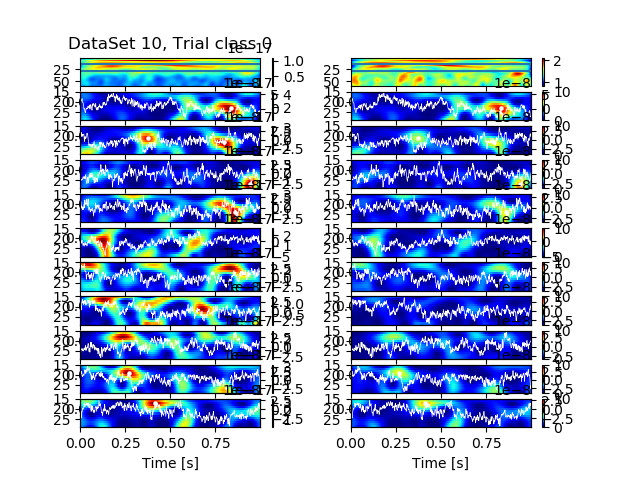
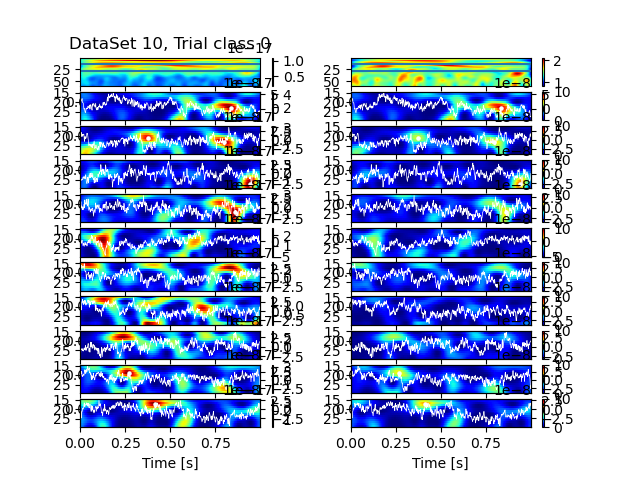
fix pcolor deprecation warning

diff --git a/spectralevents_functions.py b/spectralevents_functions.py
@@ -406,14 +406,15 @@ def spectralevents_vis ( specEv, timeseries, TFR, TFR_norm, tVec, fVec, eventBan
     fig, axs = plt.subplots(nrows=numSampTrials+1, ncols=2)
 
     # Plot average TFR
-    im = axs[0,0].pcolor(tVec, fVec, avgTFR, cmap='jet')
+    im = axs[0,0].pcolormesh(tVec, fVec, avgTFR, cmap='jet', shading='nearest')
     fig.colorbar(im, ax=axs[0,0])
     axs[0,0].invert_yaxis()
     axs[0,0].axhline(y=eventBand[0])
     axs[0,0].axhline(y=eventBand[1])
 
     # Plot average normalized TFR
-    im = axs[0,1].pcolor(tVec, fVec, avgTFR_norm, cmap='jet')
+    im = axs[0,1].pcolormesh(tVec, fVec, avgTFR_norm, cmap='jet',
+                             shading='nearest')
     fig.colorbar(im, ax=axs[0,1])
     axs[0,1].invert_yaxis()
     axs[0,1].axhline(y=eventBand[0])
@@ -428,11 +429,13 @@ def spectralevents_vis ( specEv, timeseries, TFR, TFR_norm, tVec, fVec, eventBan
         df3 = df2.drop(df2[df2['Peak Frequency']<eventBand[0]].index)
         df4 = df3.drop(df3[df3['Peak Frequency']>eventBand[1]].index)
         freqs = df4['Peak Frequency'].tolist()
+        freqs_within_band = fVec[eventBand_inds].tolist()
         times = df4['Peak Time'].tolist()
 
         # Plot trial TFR with time course overlaid
-        im = axs[t+1,0].pcolor(tVec, fVec[eventBand_inds], np.squeeze(TFR[t,eventBand_inds,:]),
-            cmap='jet')
+        tfr_within_band = np.squeeze(TFR[t,eventBand_inds,:])
+        im = axs[t+1,0].pcolormesh(tVec, freqs_within_band, tfr_within_band,
+                                   cmap='jet', shading='nearest')
         fig.colorbar(im, ax=axs[t+1,0])
         axs[t+1,0].invert_yaxis()
         axs[t+1,0].scatter(times, freqs, c='w', s=5)
@@ -441,8 +444,10 @@ def spectralevents_vis ( specEv, timeseries, TFR, TFR_norm, tVec, fVec, eventBan
         axs[t+1,0].set_xlim(tVec[0],tVec[-1])
 
         # Plot trial normalized TFR with time course overlaid
-        im = axs[t+1,1].pcolor(tVec, fVec[eventBand_inds], np.squeeze(TFR_norm[t,eventBand_inds,:]),
-            cmap='jet', vmin=0, vmax=10)
+        tfr_norm_within_band = np.squeeze(TFR_norm[t,eventBand_inds,:])
+        im = axs[t+1,1].pcolormesh(tVec, freqs_within_band,
+                                   tfr_norm_within_band, vmin=0, vmax=10,
+                                   cmap='jet', shading='nearest')
         fig.colorbar(im, ax=axs[t+1,1])
         axs[t+1,1].invert_yaxis()
         axs[t+1,1].scatter(times, freqs, c='w', s=5)
